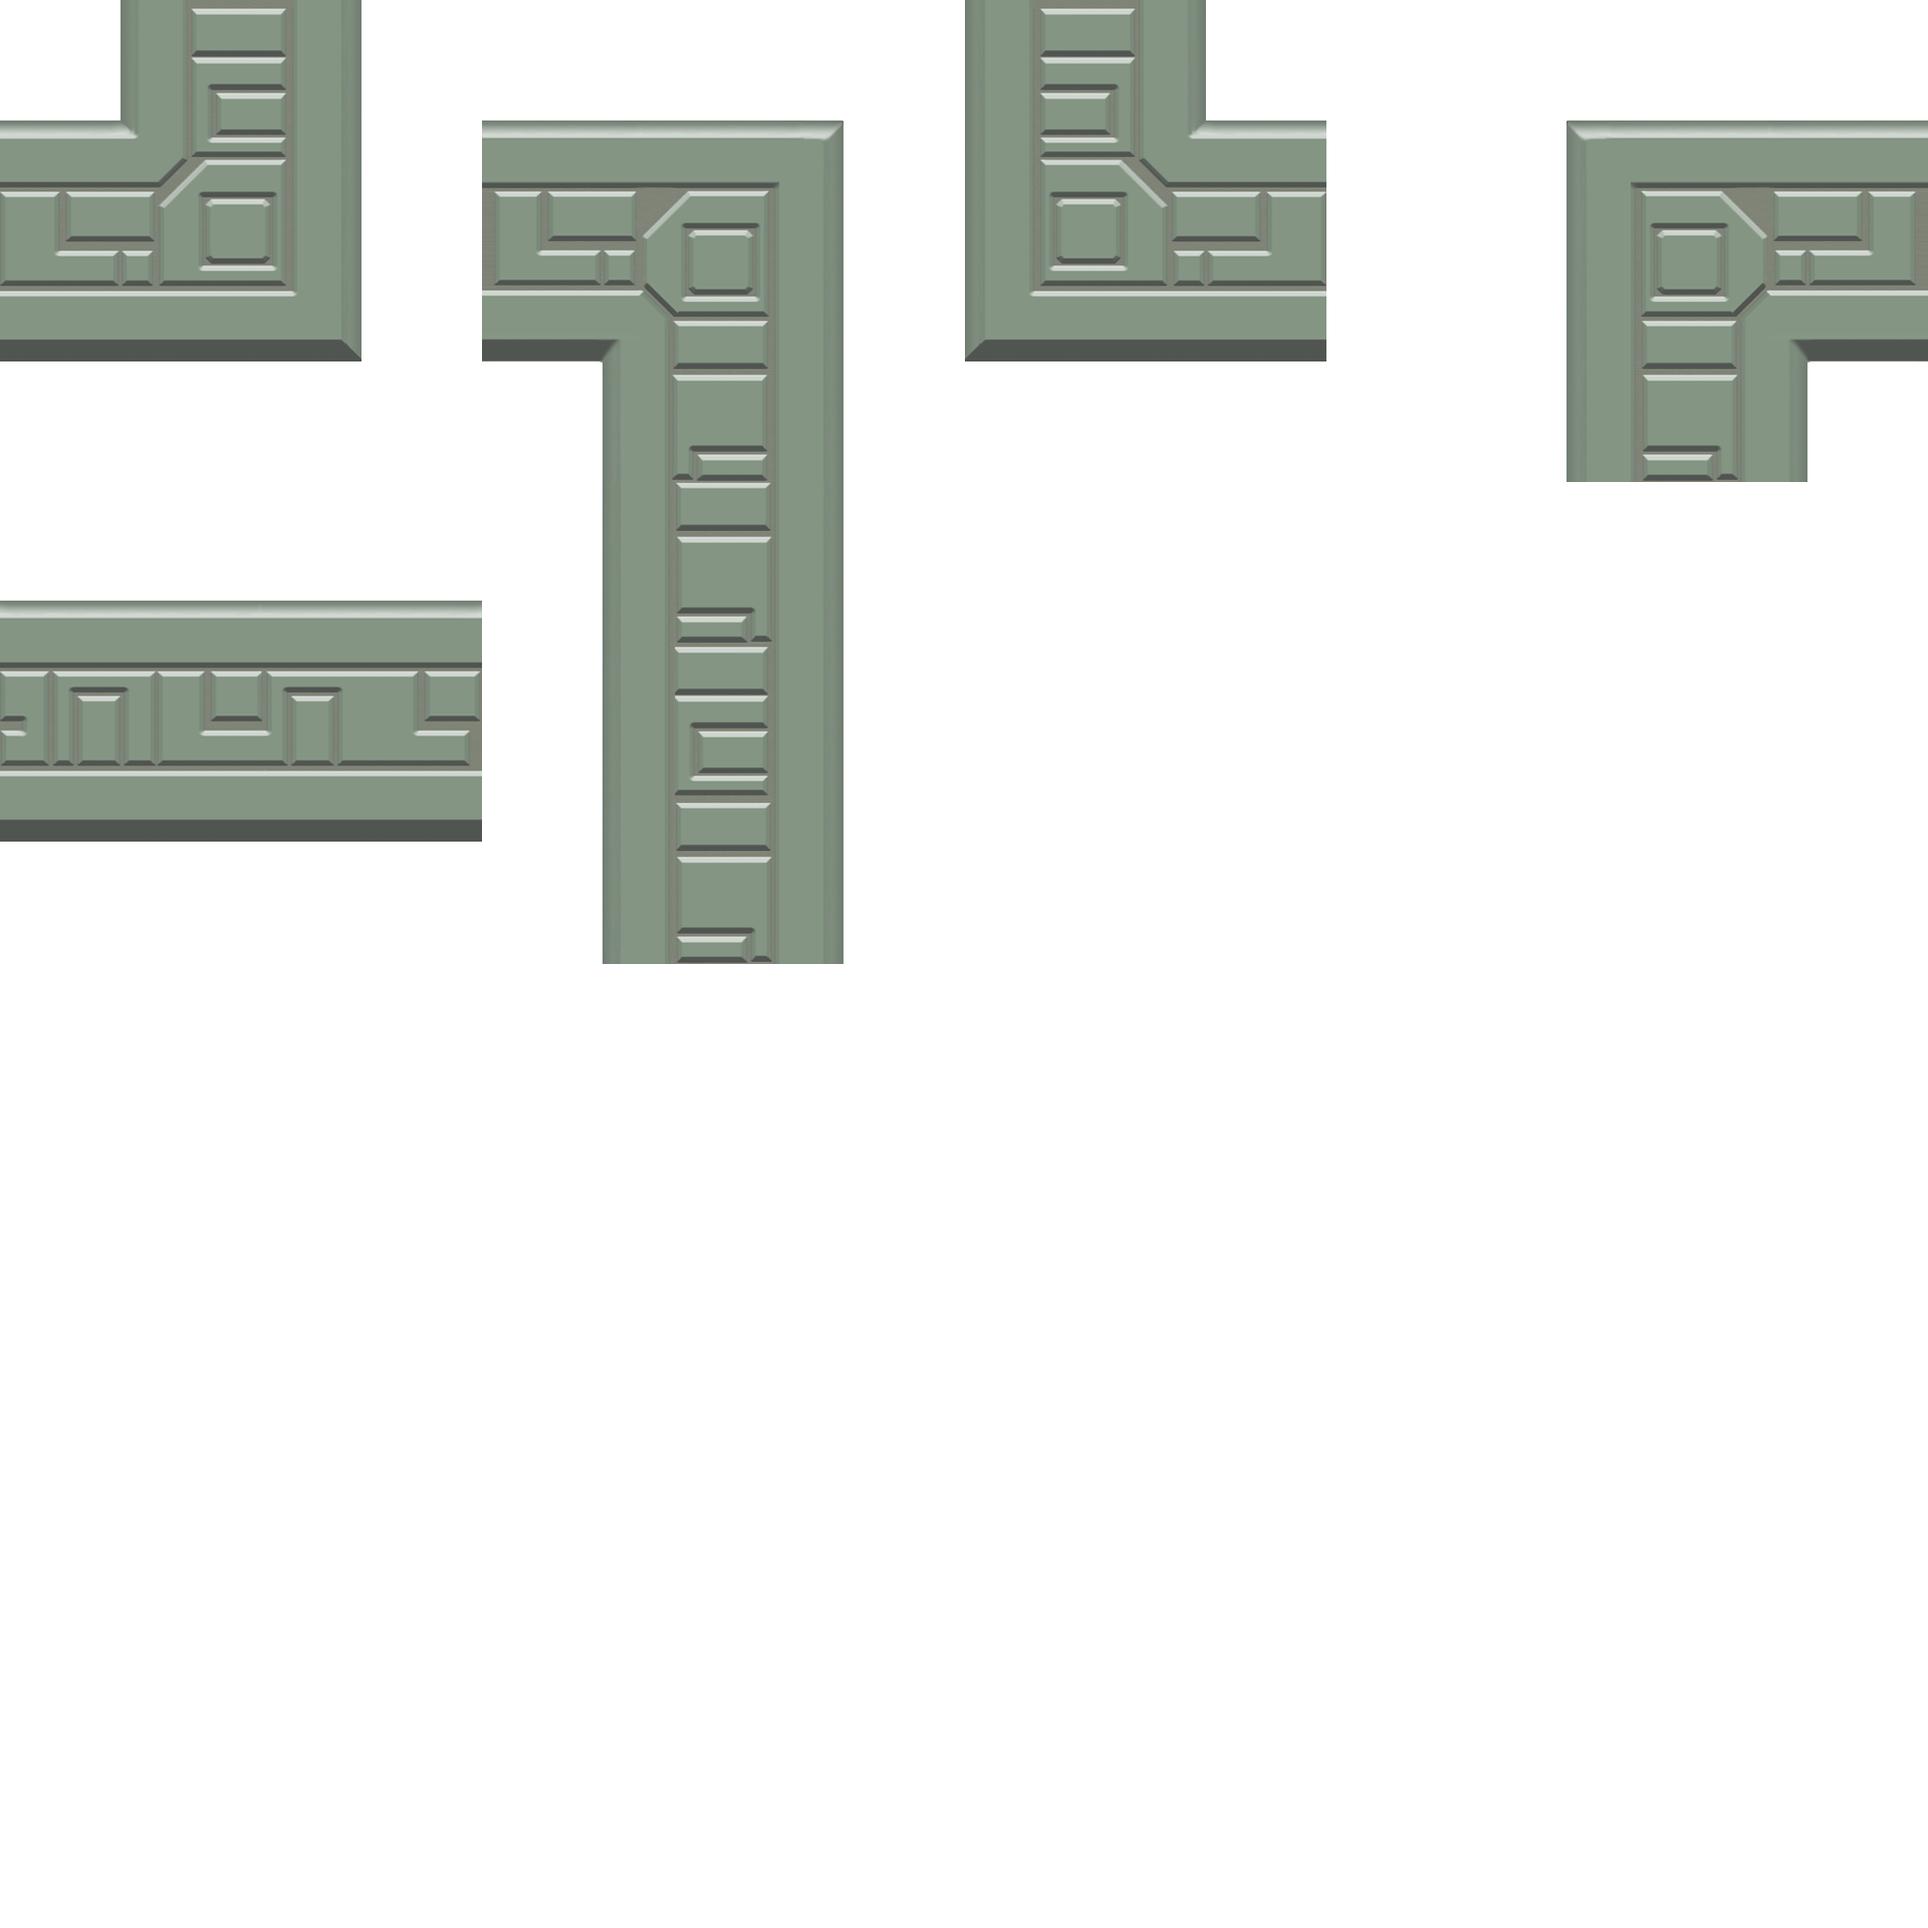
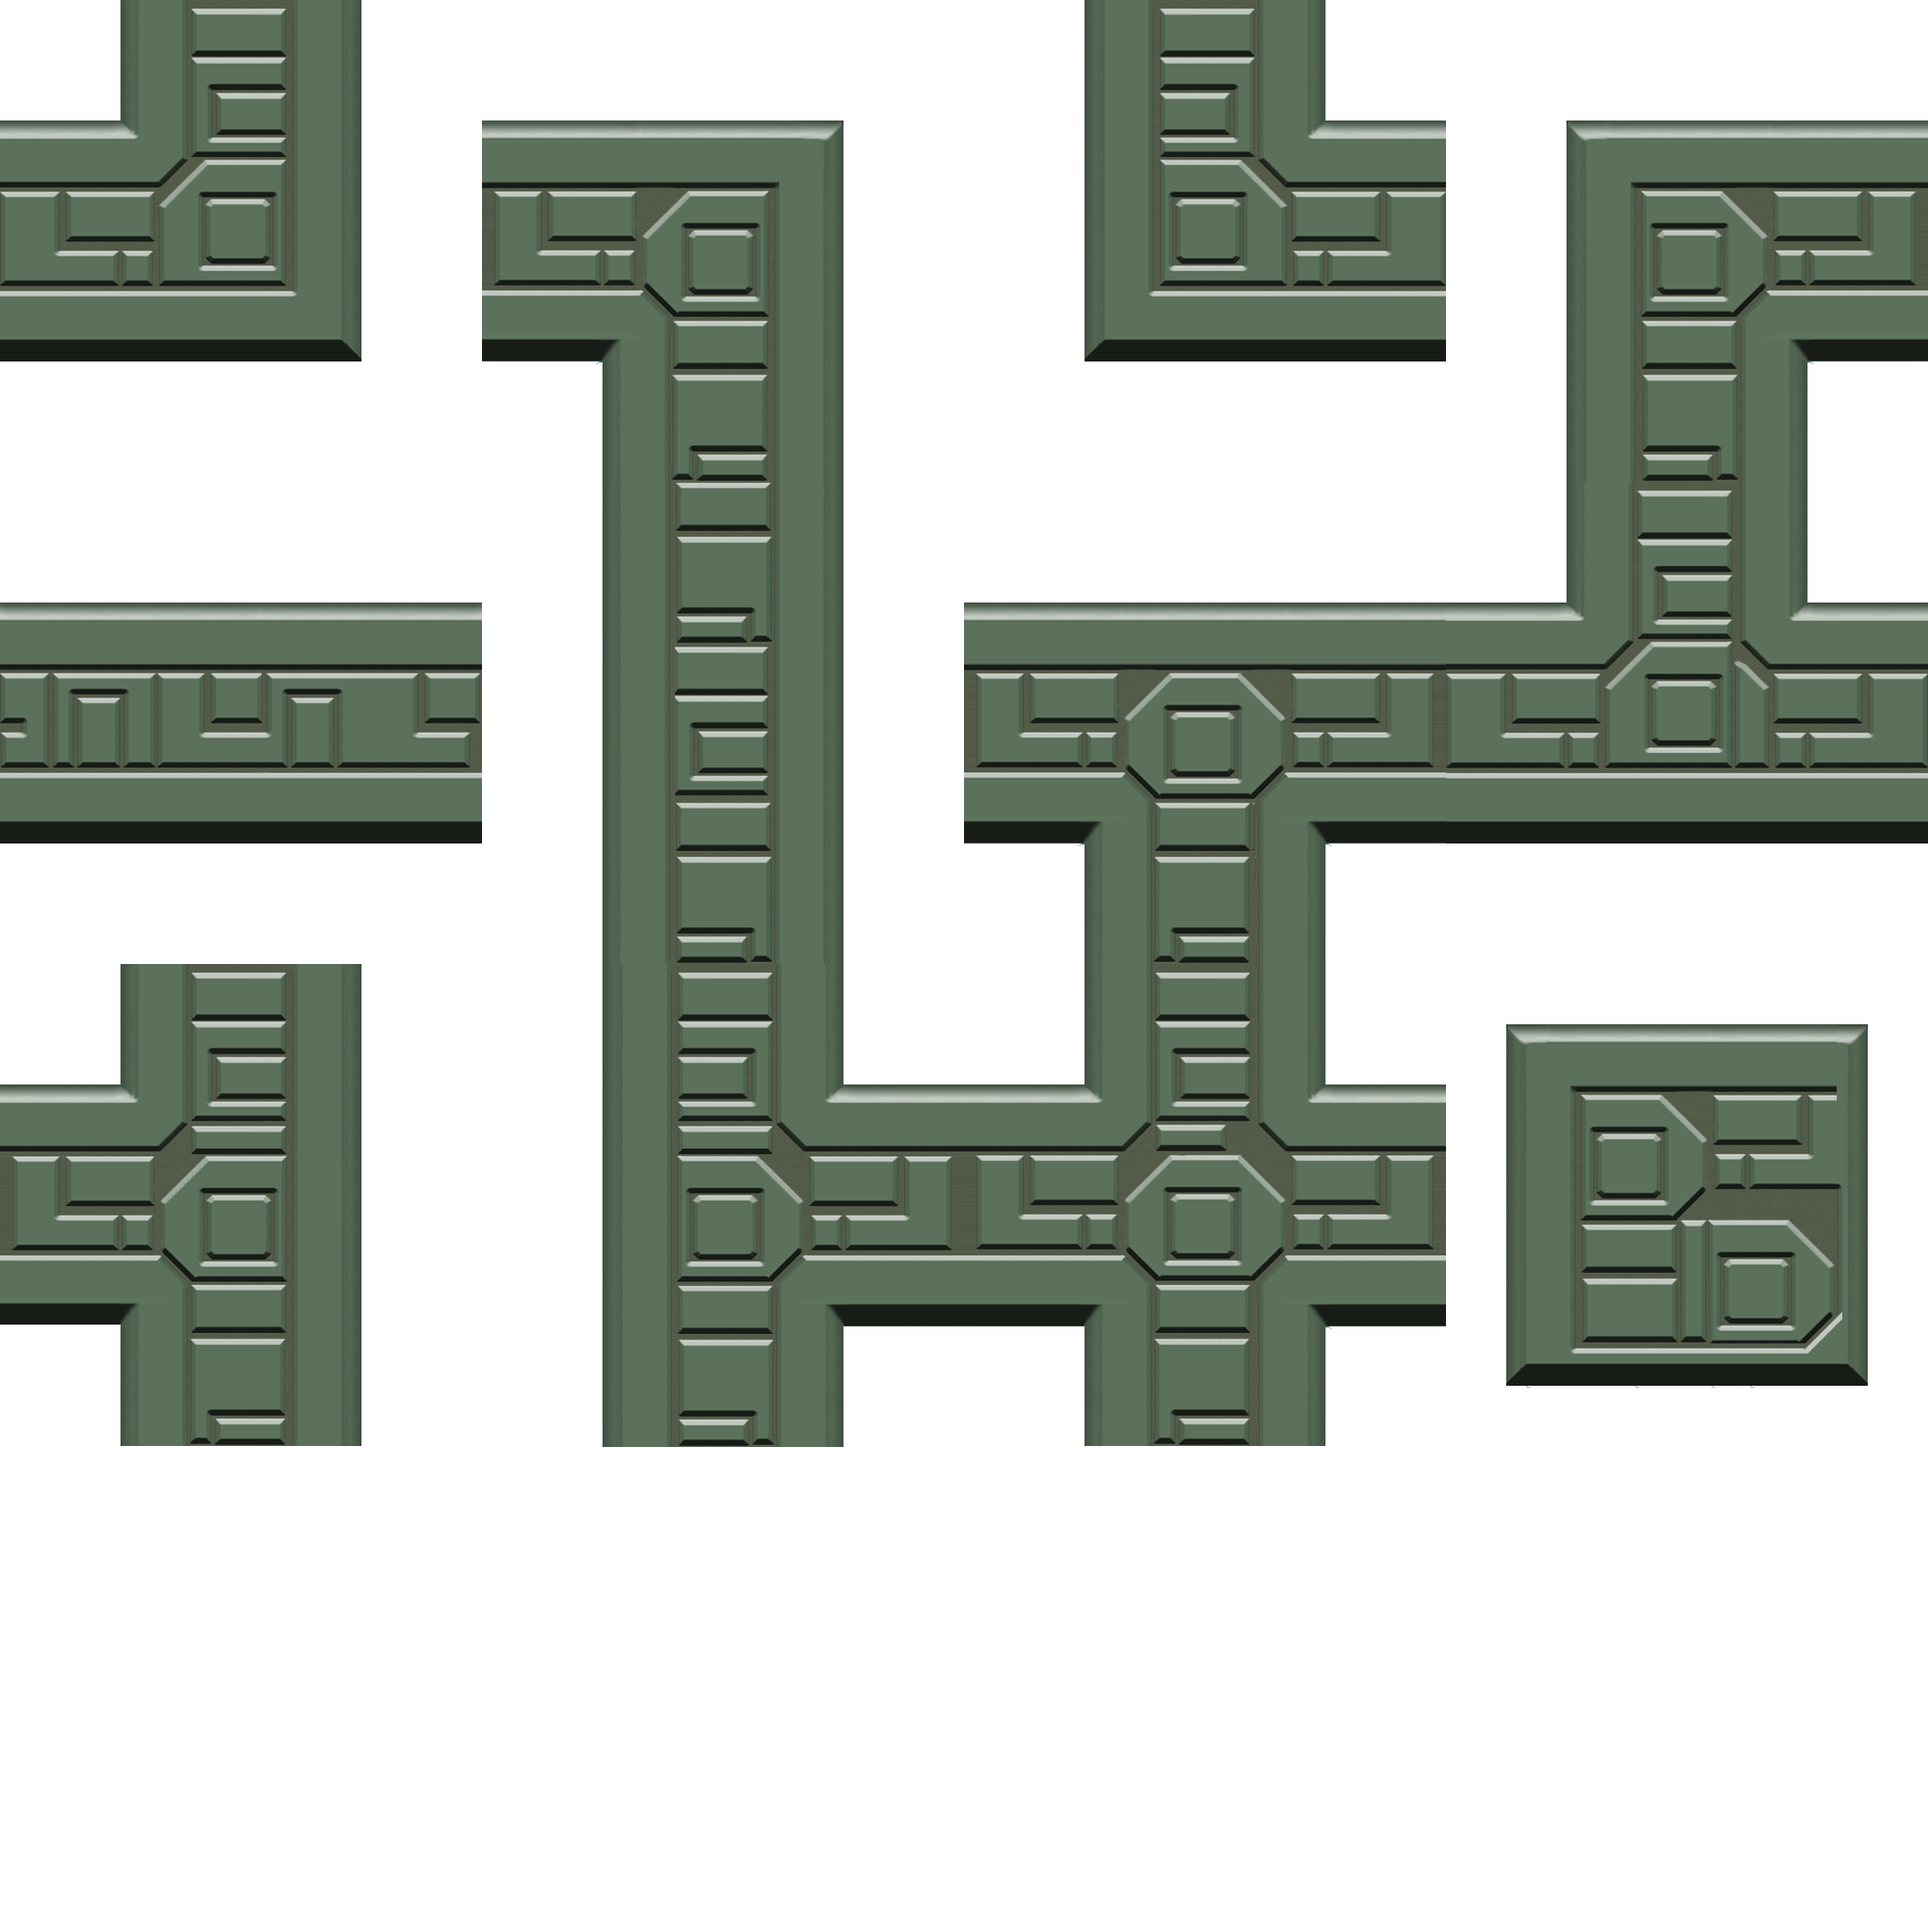
Level Creation
Created Level
Updated Spritesheet
Added additional Level elements to level.txt (As Sprite & Collider)

diff --git a/Octopussy/level.ts b/Octopussy/level.ts
@@ -34,7 +34,7 @@ module Octopussy {
 
         preload() {
 
-            this.load.spritesheet('tiles', 'assets/level/tiles.png', 512, 512, 8);
+            this.load.spritesheet('tiles', 'assets/level/tiles.png', 512, 512, 16);
 
             this.load.image('hud_mask','assets/level/hud/mask_hud_main.png');
             this.load.image('hud_btn_left','assets/level/hud/btn_hud_left.png');
@@ -171,10 +171,6 @@ module Octopussy {
                             sprite.loadTexture('tiles', 3);
                         break;
 
-                        case '#':
-                            sprite.loadTexture('tiles', 6);
-                        break;
-
                         case '-':
                             sprite.loadTexture('tiles', 4);
                         break;
@@ -182,11 +178,45 @@ module Octopussy {
                         case '|':
                             sprite.loadTexture('tiles', 5);
                         break;
+						
+						case 'V':
+                        sprite.loadTexture('tiles', 6);
+                        break;
+						
+						case '^':
+                        sprite.loadTexture('tiles', 7);
+                        break;
 
+						case '<':
+                        sprite.loadTexture('tiles', 8);
+                        break;
+						
+						case '>':
+                        sprite.loadTexture('tiles', 9);
+                        break;
+						
+						case '+':
+                        sprite.loadTexture('tiles', 10);
+                        break;
+						
+						case 'M':
+                        sprite.loadTexture('tiles', 11);
+                        break;
+						
+						case '#':
+                        sprite.loadTexture('tiles', 12);
+                        break;
+						
                         case 'T':
+                            sprite.loadTexture('tiles', 13);
+                        break;
+						
                         case 'S':
+                        sprite.loadTexture('tiles', 14);
+                        break;
+						
                         case ' ':
-                            sprite.loadTexture('tiles', 6);
+                        sprite.loadTexture('tiles', 15);
                         break;
                     }
 
@@ -273,7 +303,9 @@ module Octopussy {
 
             if(symbol == '#' || symbol == '-' || symbol == '|' ||
                symbol == '1' || symbol == '2'|| symbol == '3'||
-               symbol == '4') {
+			   symbol == '4' || symbol == 'V'|| symbol == '^'||
+			   symbol == '<' || symbol == '>'|| symbol == '+'||
+               symbol == 'M') {
 
                 return false;
             }

diff --git a/Octopussy/levelData.ts b/Octopussy/levelData.ts
@@ -4,24 +4,26 @@ module Octopussy {
         private data: string[][] = 
         [
             [
-                '##############',
-                '#4-------2####',
-                '#|      S## ##',
-                '#|T4--3 ### ##',
-                '#|T2 ## ### ##',
-                '#|          ##',
-                '##############',
-                '##############'
-            ],
-            [
-                '##############',
-                '##############',
-                '##S     ######',
-                '####### ######',
-                '####### ######',
-                '##          ##',
-                '##############',
-                '##############'
+                '#####################',
+                '##4------2#4-VV-2####',
+                '##|B     3-1B31T32###',
+                '##32 ---        T|###',
+                '###|     4V2 4- 41###',
+                '###| 42 -^^< |  |####',
+                '##41 ><   B|   41####',
+                '##|T >+V2 4+V2 |#####',
+                '#4^- 3^^< 3^^1 32####',
+                '#|S    B|       |####',
+                '#3---2 -1 4---- |####',
+                '#####|    |T    32###',
+                '##4-V< 42T>2 42 T|###',
+                '##|T31 >+V+1 3^-V1###',				
+                '##|    >^+<     |####',
+				'##|B42 |B>1 --2 32###',
+				'##3-+1   |B  T| T|###',
+				'####|T |T>----<E41###',
+				'####3--^-1####3-1####',
+                '#####################'
             ]
         ];
 
